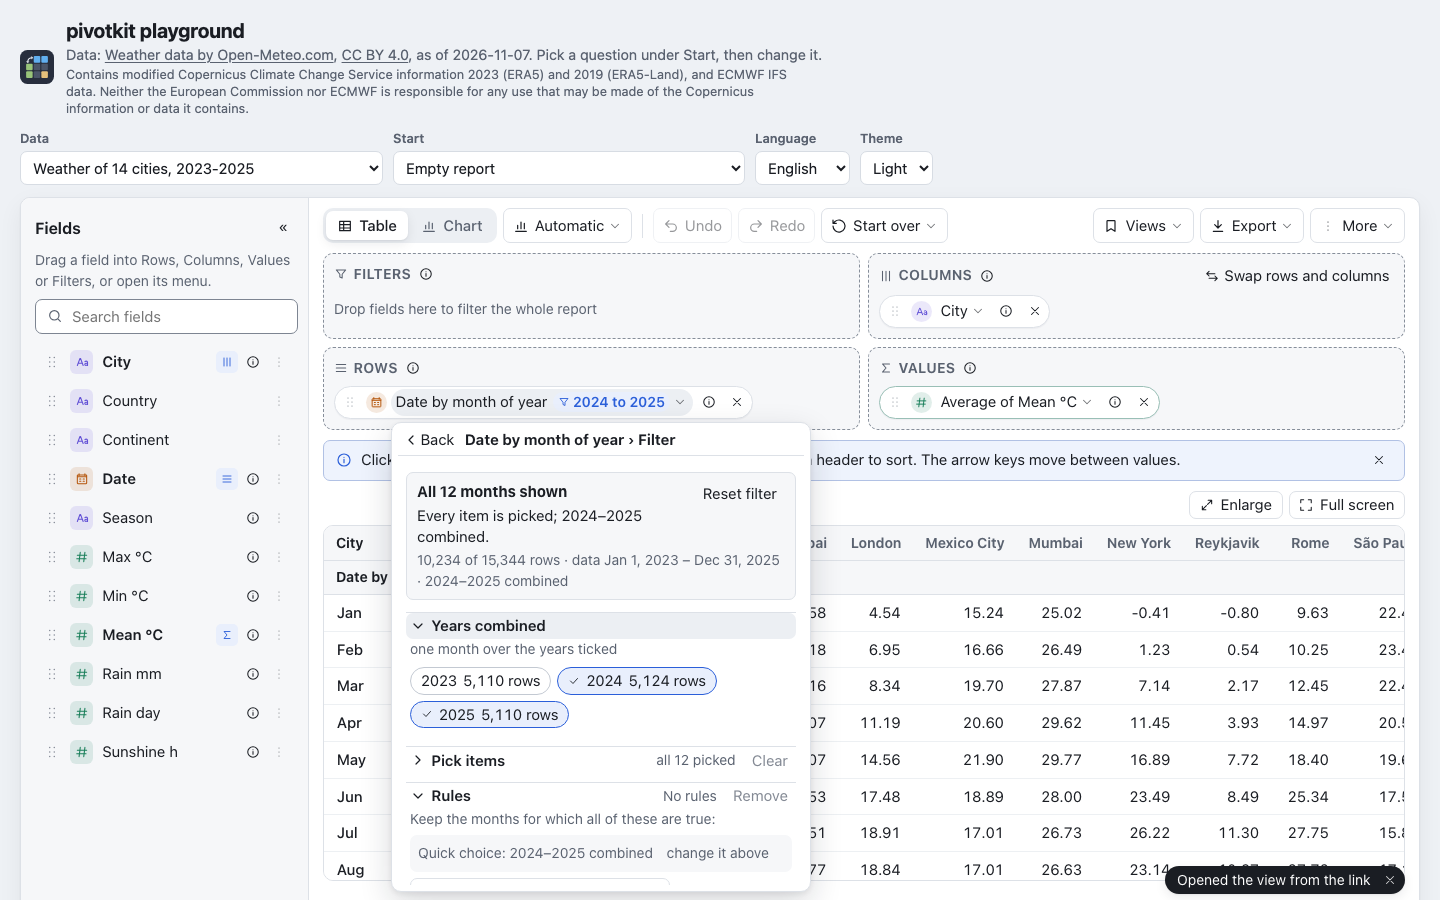
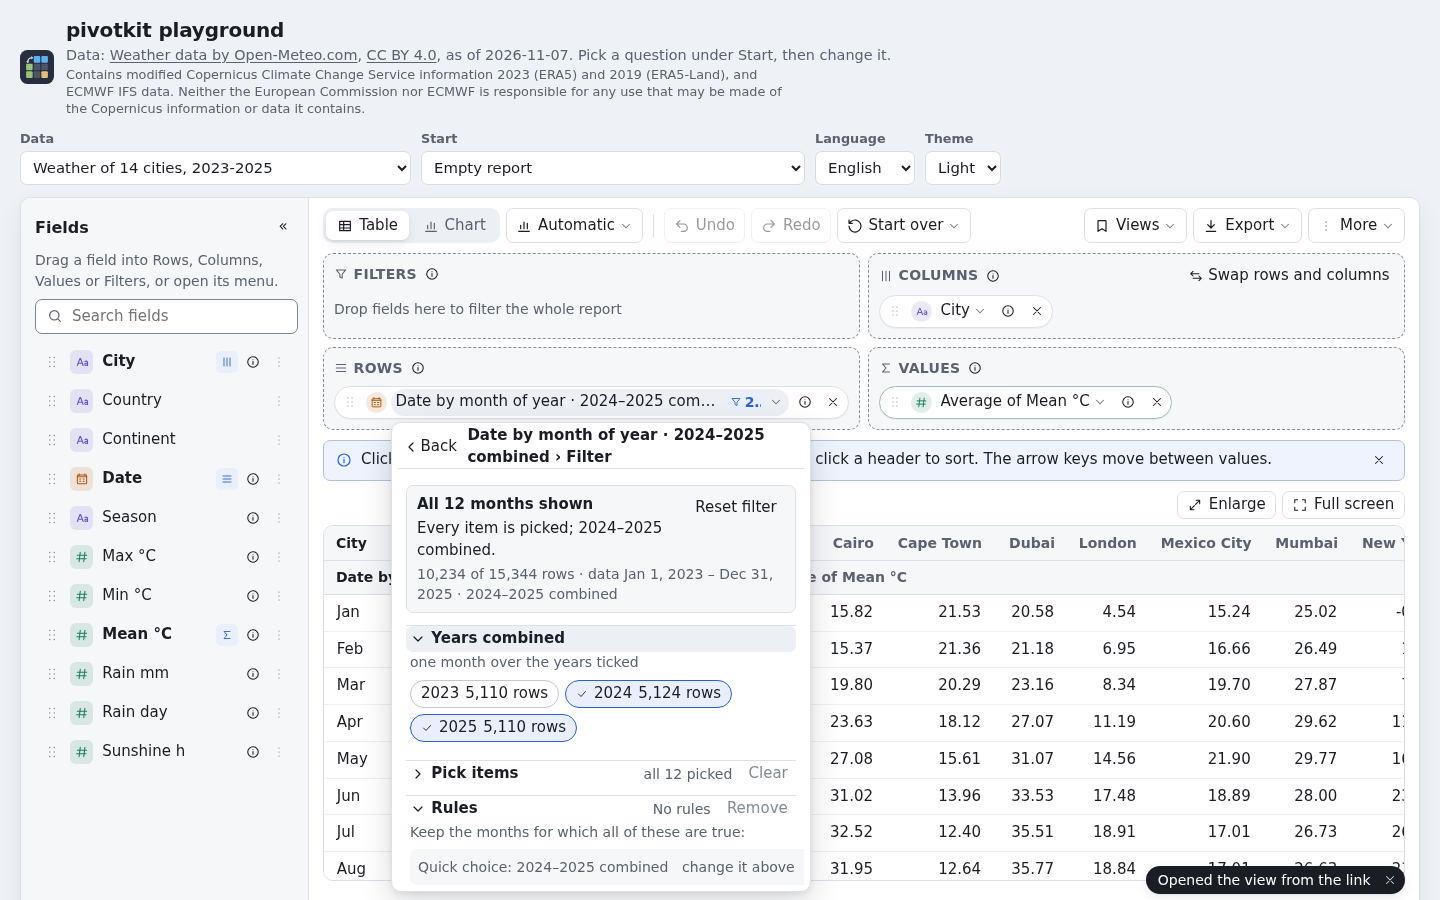
fix(react): keep date context consistent across menus and exports

diff --git a/packages/pivotkit-react/src/group-context.js b/packages/pivotkit-react/src/group-context.js
@@ -1,26 +1,42 @@
 // Group-level hints load only with the menus.
 import { CATALOG } from "pivotkit-core";
-import { dateSpan } from "./view-ops.js";
 import { fill } from "./labels.js";
 import { dateRangeText } from "./date-context.js";
 
+/** Scan the dictionary once for all Group choices, not once per choice.
+ * @param {import("pivotkit-core").Encoded | undefined} encoded @param {string} field */
+export function groupStats(encoded, field) {
+    const column = encoded?.column(field);
+    if (!column || column.type !== "date") return null;
+    let min = Infinity, max = -Infinity, minMonth = 11, maxMonth = 0;
+    const years = new Set();
+    for (const value of column.dict) {
+        if (typeof value !== "number" || !Number.isFinite(value)) continue;
+        min = Math.min(min, value); max = Math.max(max, value);
+        const date = new Date(value), month = date.getUTCMonth();
+        years.add(date.getUTCFullYear());
+        minMonth = Math.min(minMonth, month); maxMonth = Math.max(maxMonth, month);
+    }
+    return min <= max ? {span: {min, max}, first: new Date(min), last: new Date(max), years: years.size, minMonth, maxMonth} : null;
+}
+
+/** Inclusive calendar days, independent of the endpoint times. @param {{min: number, max: number}} span */
+export const calendarDays = (span) => Math.floor(span.max / 86400000) - Math.floor(span.min / 86400000) + 1;
+
 /** Data-derived hints in the Group level; wall-clock dates are formatted in UTC.
- * @param {import("pivotkit-core").Encoded} encoded @param {string} field @param {string} unit @param {string} locale @param {any} labels */
-export function groupHint(encoded, field, unit, locale, labels) {
-    const span = encoded ? dateSpan(encoded, field) : null;
-    if (!span) return labels.unitHints[unit] || undefined;
-    const first = new Date(span.min), last = new Date(span.max);
-    const years = new Set((encoded.column(field)?.dict ?? []).filter((v) => typeof v === "number").map((v) => new Date(Number(v)).getUTCFullYear()));
+ * @param {import("pivotkit-core").Encoded} encoded @param {string} field @param {string} unit @param {string} locale @param {any} labels @param {ReturnType<typeof groupStats>} [stats] */
+export function groupHint(encoded, field, unit, locale, labels, stats = groupStats(encoded, field)) {
+    const span = stats?.span;
+    if (!span || !stats) return labels.unitHints[unit] || undefined;
+    const {first, last, minMonth, maxMonth, years} = stats;
     const y1 = first.getUTCFullYear(), y2 = last.getUTCFullYear();
     if (CATALOG.cyclicUnits.includes(unit)) {
         let example = labels.unitHints[unit];
-        const dates = (encoded.column(field)?.dict ?? []).filter((v) => typeof v === "number").map((v) => new Date(Number(v)));
         if (unit === "month" || unit === "quarter") {
-            const months = dates.map((d) => d.getUTCMonth()).sort((a, b) => a - b);
             const name = (m) => unit === "quarter" ? `Q${Math.floor(m / 3) + 1}` : new Intl.DateTimeFormat(locale, {month: "short", timeZone: "UTC"}).format(new Date(Date.UTC(2000, m, 1)));
-            example = `${name(months[0])}–${name(months[months.length - 1])}`;
+            example = `${name(minMonth)}–${name(maxMonth)}`;
         }
-        return `${example} · ${fill(labels.groupYearsTogether, { years: years.size })}`;
+        return `${example} · ${fill(labels.groupYearsTogether, { years })}`;
     }
     if (unit === "yearQuarter") {
         const q1 = Math.floor(first.getUTCMonth() / 3) + 1, q2 = Math.floor(last.getUTCMonth() / 3) + 1;

diff --git a/packages/pivotkit-react/src/menu-topics.js b/packages/pivotkit-react/src/menu-topics.js
@@ -11,7 +11,7 @@
 import { CATALOG, aggregatorsFor, fieldLabel, formatter, isFormat } from "pivotkit-core";
 import { fill, plural } from "./labels.js";
 import { dateRangeText } from "./date-context.js";
-import { groupHint } from "./group-context.js";
+import { calendarDays, groupHint, groupStats } from "./group-context.js";
 import { groupingName, refLabel, relativeText, sortText, valueLabel } from "./names.js";
 import { ZONES, dateSpan, filterZoneFields, filtersOf, groupField, groupingOf, moveField, numericResult, reorder, sameRef, setSort, sortEntry, sortOf, sourceOf } from "./view-ops.js";
 import { TOTALS, filterState, measureChoices, ruleKind, setQuickRange, setRule, setTopFilter, totalNoEffect, updateValue, withMeasure } from "./menu-ops.js";
@@ -135,17 +135,19 @@ export function axisTopics({ view, zone, index, field, types, labels, locale, st
         filterTopic({ view, field, labels, locale, state, encoded })
     ];
     if (date) {
-        const span = encoded ? dateSpan(encoded, source) : null;
+        const stats = groupStats(encoded, source);
+        const span = stats?.span;
+        const dateLocale = view.formatting?.locale || locale;
         const regroup = (unit) => () => {
             const sourceName = fieldLabel(source, labels.core);
             const grouped = unit ? groupingName(sourceName, unit, labels) : null;
             return { view: groupField(view, field, unit, { name: grouped ?? undefined }).view, note: { step: "group", field: sourceName } };
         };
         // the field is replaced by its grouping (another chip): the menu closes
-        const unit = (u) => ({ id: `group-${u}`, text: labels.units[u] ?? u, hint: groupHint(encoded, source, u, locale, labels), checked: grouping?.by === u, closes: true, change: regroup(u) });
+        const unit = (u) => ({ id: `group-${u}`, text: labels.units[u] ?? u, hint: groupHint(encoded, source, u, dateLocale, labels, stats), checked: grouping?.by === u, closes: true, change: regroup(u) });
         topics.push({
             id: "group",
-            intro: span ? fill(labels.groupDataRange, { range: dateRangeText(span, locale), days: Math.floor((span.max - span.min) / 86400000) + 1 }) : undefined,
+            intro: span ? fill(labels.groupDataRange, { range: dateRangeText(span, dateLocale), days: calendarDays(span) }) : undefined,
             title: labels.groupTopic,
             kind: "menu",
             icon: "date",

diff --git a/packages/pivotkit-react/src/PivotReport.jsx b/packages/pivotkit-react/src/PivotReport.jsx
@@ -770,11 +770,11 @@ function Report(props) {
                 return undefined;
             }
             const entry = info.get(sourceOf(view, field).toLowerCase());
-            const range = dateRangeText(dateSpan(encoded, sourceOf(view, field)), locale);
+            const range = dateRangeText(dateSpan(encoded, sourceOf(view, field)), result?.locale ?? locale);
             const description = [entry?.description, range].filter(Boolean).join(" · ");
             return description ? { ...entry, description } : undefined;
         },
-        [info, view, encoded, locale]
+        [info, view, encoded, locale, result?.locale]
     );
     const fieldInfo = useMemo(() => {
         const entries = new Map(info);
@@ -962,7 +962,7 @@ function Report(props) {
         [result, encodedProp, imported, data, drillDownLimit, onCellClick, drillDown, defaultsOf, nameOf, infoOf]
     );
 
-    const doExport = useExport({ fileName, result, locale, labels, limits, root, chartRef, announce, onExport });
+    const doExport = useExport({ fileName, result, locale, labels: context.labels, limits, root, chartRef, announce, onExport });
 
     // loading data (allowImport): the import UI (import-host.jsx) loads on first use (the Data menu, a
     // file dragged over the report, the empty report's button) and renders the file input, the drop
@@ -1203,11 +1203,11 @@ function Report(props) {
             return null;
         }
         try {
-            return toSeries(chartResult, { labels: labels.core, maxCategories: MAX_CATEGORIES });
+            return toSeries(chartResult, { labels: chartContext.labels.core, maxCategories: MAX_CATEGORIES });
         } catch {
             return null;
         }
-    }, [chartResult, view.display, view.values.length, labels]);
+    }, [chartResult, view.display, view.values.length, chartContext.labels]);
 
     // tips: the host allows some or all, the user dismisses them (remembered per storageKey)
     const allowedKey = JSON.stringify(allowedTips(tipsProp));

diff --git a/tests/browser/date-context.spec.js b/tests/browser/date-context.spec.js
@@ -1,3 +1,4 @@
+import { readFile } from "node:fs/promises";
 import { toViewFile } from "pivotkit-core";
 import { encodeViewLink } from "pivotkit-core/link";
 import { test, expect, openZones } from "./fixtures.js";
@@ -24,4 +25,26 @@ test("a single weather year labels cyclic items, not combined years #109", async
     await expect(page.getByTestId("pivot-table")).toContainText("Jan 2025");
     await expect(page.getByTestId("pivot-table")).not.toContainText("combined");
     await expect(page.getByTestId("date-range")).toContainText("2023");
+});
+
+test("cyclic chip IDs stay stable and downloaded headers keep year context #109", async ({page}) => {
+    await page.goto("?data=weather&preset=0");
+    await openZones(page);
+    await page.getByTestId("chip-menu-Date by month of year").click();
+    await expect(page.locator(".pk-chip-menu")).toBeVisible();
+    await page.keyboard.press("Escape");
+    await page.getByTestId("export").click();
+    const [download] = await Promise.all([page.waitForEvent("download"), page.getByTestId("export-csv").click()]);
+    const text = await readFile(await download.path(), "utf8");
+    expect(text).toContain("2023–2025 combined");
+});
+
+test("field information and footer use the loaded view locale #109", async ({page}) => {
+    const view = {rows:["Date"], values:[{agg:"count"}], formatting:{locale:"de-DE"}};
+    const hash = encodeViewLink(toViewFile(view, {}, {link:true}));
+    await page.goto(`?data=weather&empty#pivot-playground=${hash}`);
+    const expected = new Intl.DateTimeFormat("de-DE", {year:"numeric", month:"short", day:"numeric", timeZone:"UTC"}).format(Date.UTC(2023,0,1));
+    await expect(page.getByTestId("date-range")).toContainText(expected);
+    await page.locator('.pk-field[data-field="Date"]').getByTestId("field-info").click();
+    await expect(page.locator(".pk-popover")).toContainText(expected);
 });

diff --git a/packages/pivotkit-react/test/date-context.test.js b/packages/pivotkit-react/test/date-context.test.js
@@ -1,8 +1,8 @@
 import { test } from "node:test";
 import assert from "node:assert/strict";
 import { computePivot, encode, toGrid } from "pivotkit-core";
-import { dateContext, dateRangeText, yearsOf } from "../src/date-context.js";
-import { groupHint } from "../src/group-context.js";
+import { dateContext, dateRangeText, yearSetText, yearsOf } from "../src/date-context.js";
+import { calendarDays, groupHint, groupStats } from "../src/group-context.js";
 import { LABELS } from "../src/labels.js";
 import { en } from "../src/menu-labels.js";
 import { de } from "../src/menu-labels-de.js";
@@ -31,4 +31,17 @@ test("empty/non-date fields have no fabricated range; German range and Group hin
     assert.match(groupHint(data, "Date", "month", "de-DE", {...LABELS.de, ...de}), /2 Jahre zusammen/);
     assert.match(dateContext(computePivot(data, view), LABELS.de).labels.core.fields.Month, /zusammengefasst/);
     assert.deepEqual(dateContext(computePivot(data, {values: [{field: "Amount", agg: "sum"}]}), LABELS.en).ranges, []);
+});
+
+test("year sets preserve gaps and day counts normalize both endpoints", () => {
+    assert.equal(yearSetText([2023, 2025]), "2023, 2025");
+    assert.equal(yearSetText([2022, 2023, 2025, 2026]), "2022–2023, 2025–2026");
+    assert.equal(calendarDays({min: Date.UTC(2025, 0, 1, 23), max: Date.UTC(2025, 0, 2, 1)}), 2);
+});
+test("one Group dictionary scan supplies every unit's hints", () => {
+    let reads = 0;
+    const counted = {...data, column: (field) => { reads++; return data.column(field); }};
+    const stats = groupStats(counted, "Date");
+    for (const unit of ["year", "yearQuarter", "yearMonth", "yearWeek", "day", "quarter", "month", "week", "weekday", "hour"]) groupHint(counted, "Date", unit, "en-US", {...LABELS.en, ...en}, stats);
+    assert.equal(reads, 1);
 });

diff --git a/packages/pivotkit-react/src/date-context.js b/packages/pivotkit-react/src/date-context.js
@@ -24,6 +24,17 @@ export function yearsOf(result, field) {
     return [...years].sort((a, b) => a - b);
 }
 
+/** List only years actually included, coalescing consecutive runs. @param {number[]} years */
+export function yearSetText(years) {
+    const runs = [];
+    for (let i = 0; i < years.length; i++) {
+        const first = years[i];
+        while (i + 1 < years.length && years[i + 1] === years[i] + 1) i++;
+        runs.push(first === years[i] ? String(first) : `${first}–${years[i]}`);
+    }
+    return runs.join(", ");
+}
+
 /** @param {import("pivotkit-core").PivotResult | null} result @param {import("./labels.js").UiLabels} labels
  * @returns {{result: import("pivotkit-core").PivotResult | null, labels: import("./labels.js").UiLabels, ranges: {field: string, text: string}[]}} */
 export function dateContext(result, labels) {
@@ -35,7 +46,7 @@ export function dateContext(result, labels) {
         if (!CATALOG.cyclicUnits.includes(d.by)) continue;
         const years = yearsOf(result, d.field);
         if (years.length > 1) {
-            const span = `${years[0]}–${years[years.length - 1]}`;
+            const span = yearSetText(years);
             fields[d.name] = `${fieldLabel(d.name, labels.core)} · ${fill(labels.dateYearsCombined, { years: span })}`;
         } else if (years.length === 1) single.set(d.name, years[0]);
     }

diff --git a/packages/pivotkit-react/src/zones.jsx b/packages/pivotkit-react/src/zones.jsx
@@ -159,7 +159,7 @@ function Chip({ id, zone, index, count, field, text, typeName, view, types, labe
                 role="dialog"
                 popoverClass="pk-chip-menu"
                 fill
-                testId={`chip-menu-${text}`}
+                testId={`chip-menu-${zone !== "values" && view.derived.some((d) => d.name === field) ? field : text}`}
             >
                 {(close) =>
                     zone === "values" ? (
